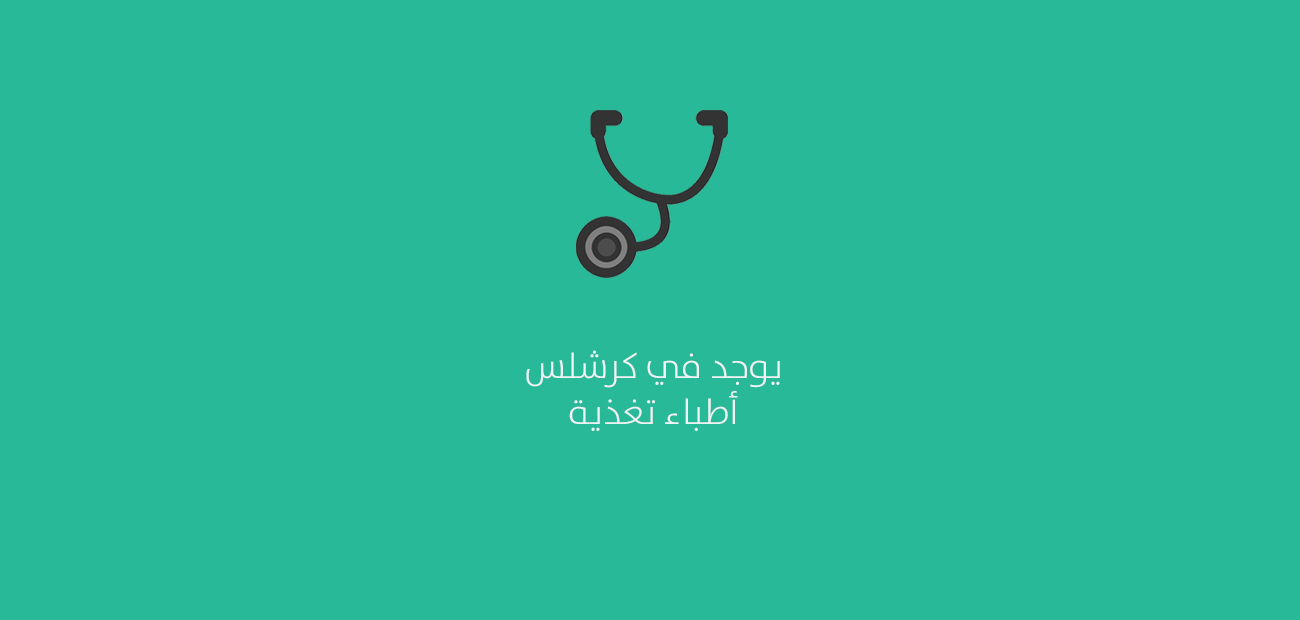
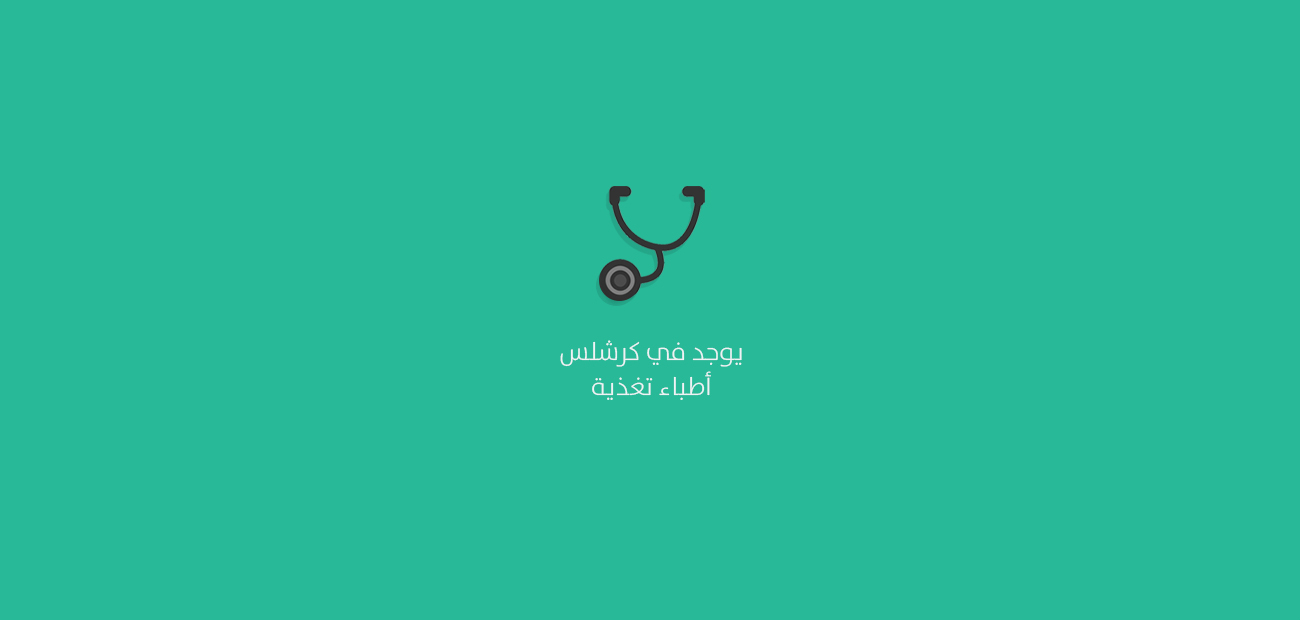
Change styling of erroneous contact form inputs, update slider pictures and fix font in homepage

Changed region(s): [[0.4308, 0.1532, 0.5846, 0.4903], [0.4, 0.5516, 0.6154, 0.7048]]

diff --git a/Assets/js/jqBootstrapValidation.js b/Assets/js/jqBootstrapValidation.js
@@ -482,7 +482,7 @@
                     ( settings.options.prependExistingHelpBlock ? $helpBlock.data("original-contents") : "" ));
                 } else {
                   // Multiple? Being sloppy? Glue them together into an UL.
-                  $helpBlock.html("<ul role=\"alert\"><li>" + errorsFound.join("</li><li>") + "</li></ul>" +
+                  $helpBlock.html("<div role=\"alert\"><span>" + errorsFound.join("</span><span>") + "</span></div>" +
                     ( settings.options.prependExistingHelpBlock ? $helpBlock.data("original-contents") : "" ));
                 }
               } else {

diff --git a/Assets/css/contact-form.css b/Assets/css/contact-form.css
@@ -1,8 +1,5 @@
 /* Main Style */
 
-.name, .email, .message textarea  {
-  font-family: "thameen" !important;
-}
 
 .name input, .email input, textarea{
   background-color: #eaedf1 !important;
@@ -36,6 +33,9 @@ input:focus, .name input:focus, .email input:focus, .message textarea:focus {
   background-color: #eaedf1 !important;
   border: 1px solid #28b998 !important;
   outline: none;
+}
+div.error > input, div.warning > input,div.error > div >textarea, div.warning > div > textarea  {
+  border: 1px solid #e74c3c !important;
 }
 .send-message {
   background-color: #ffffff;

diff --git a/Assets/css/custom-bootstrap.css b/Assets/css/custom-bootstrap.css
@@ -103,3 +103,7 @@ button.close {
 .carousel-control.left, .carousel-control.right {
     background-image: none
 }
+
+.text-danger, .text-danger:hover {
+  font-size: 12px;
+}

diff --git a/Assets/css/freelancer.css b/Assets/css/freelancer.css
@@ -25,6 +25,7 @@ h1, h2, h4, h5, h6 {
 }
 h3 {
   text-transform: uppercase;
+  font-family: "jf";
 }
 
 hr.star-light, hr.star-primary {

diff --git a/application/views/view_main_new.php b/application/views/view_main_new.php
@@ -16,12 +16,16 @@
 
   <!-- Bootstrap Core CSS - Uses Bootswatch Flatly Theme: http://bootswatch.com/flatly/ -->
   <link href="<?php echo base_url(); ?>Assets/css/bootstrap.min.css" rel="stylesheet">
+  <!-- Bootstrap RTL -->
+  <link href="<?php echo base_url(); ?>Assets/css/bootstrap-rtl.css" rel="stylesheet">
   <link href="<?php echo base_url(); ?>Assets/css/custom-bootstrap.css" rel="stylesheet">
 
   <!-- Custom CSS -->
   <link href="<?php echo base_url(); ?>Assets/css/freelancer.css" rel="stylesheet">
   <link rel="stylesheet" href="<?php echo base_url(); ?>Assets/css/contact-form.css">
+  <link rel="stylesheet" href="<?php echo base_url(); ?>Assets/fonts/jf/font.css">
   <link rel="stylesheet" href="<?php echo base_url(); ?>Assets/css/fonts.css">
+
 
   <!-- Custom Fonts -->
   <link href="<?php echo base_url(); ?>font-awesome/css/font-awesome.min.css" rel="stylesheet" type="text/css">
@@ -45,7 +49,7 @@ else{
   $other_lang = 'en';
 }
 ?>
-<body id="page-top" class="index"  style="<?php if($current_lang == 'ar') {echo 'direction:rtl;font-family: \'thameen\' !important';} else {echo 'font-family: \'HelveticaNeue-Light\' !important';} ?>">
+<body id="page-top" class="index"  style="<?php if($current_lang == 'ar') {echo 'font-family: \'jf\' !important';} else {echo 'font-family: \'HelveticaNeue-Light\' !important';} ?>">
 
   <!-- Navigation -->
   <nav class="navbar navbar-default navbar-fixed-top">
@@ -99,44 +103,33 @@ else{
 
   <!-- Slider Section -->
   <section class="main first" id="home">
-    <div id="carousel-example-generic" class="carousel slide" data-ride="carousel" style="direction:ltr">
-      <!-- Indicators -->
-      <ol class="carousel-indicators">
-        <li data-target="#carousel-example-generic" data-slide-to="0" class="active"></li>
-        <li data-target="#carousel-example-generic" data-slide-to="1"></li>
-        <li data-target="#carousel-example-generic" data-slide-to="2"></li>
-        <li data-target="#carousel-example-generic" data-slide-to="3"></li>
-        <li data-target="#carousel-example-generic" data-slide-to="4"></li>
-        <li data-target="#carousel-example-generic" data-slide-to="5"></li>
-        <li data-target="#carousel-example-generic" data-slide-to="6"></li>
-        <li data-target="#carousel-example-generic" data-slide-to="7"></li>
-      </ol>
+    <div id="carousel-example-generic" class="carousel slide" data-ride="carousel">
 
       <!-- Wrapper for slides -->
       <div class="carousel-inner" role="listbox">
         <div class="item active">
-          <img style="width:100%;" src="<?php echo base_url(); ?>Assets/Images/slider_1.jpg" />
+          <img src="<?php echo base_url(); ?>Assets/Images/slider_1.jpg" />
         </div>
         <div class="item">
-          <img style="width:100%;" src="<?php echo base_url(); ?>Assets/Images/slider_2.jpg" />
+          <img src="<?php echo base_url(); ?>Assets/Images/slider_2.jpg" />
         </div>
         <div class="item">
-          <img style="width:100%;" src="<?php echo base_url(); ?>Assets/Images/slider_3.jpg" />
+          <img src="<?php echo base_url(); ?>Assets/Images/slider_3.jpg" />
         </div>
         <div class="item">
-          <img style="width:100%;" src="<?php echo base_url(); ?>Assets/Images/slider_4.jpg" />
+          <img src="<?php echo base_url(); ?>Assets/Images/slider_4.jpg" />
         </div>
         <div class="item">
-          <img style="width:100%;" src="<?php echo base_url(); ?>Assets/Images/slider_5.jpg" />
+          <img src="<?php echo base_url(); ?>Assets/Images/slider_5.jpg" />
         </div>
         <div class="item">
-          <img style="width:100%;" src="<?php echo base_url(); ?>Assets/Images/slider_6.jpg" />
+          <img src="<?php echo base_url(); ?>Assets/Images/slider_6.jpg" />
         </div>
         <div class="item">
-          <img style="width:100%;" src="<?php echo base_url(); ?>Assets/Images/slider_7.jpg" />
+          <img src="<?php echo base_url(); ?>Assets/Images/slider_7.jpg" />
         </div>
         <div class="item">
-          <img style="width:100%;" src="<?php echo base_url(); ?>Assets/Images/slider_8.jpg" />
+          <img src="<?php echo base_url(); ?>Assets/Images/slider_8.jpg" />
         </div>
       </div>
 
@@ -233,17 +226,17 @@ else{
             </div>
           </div>
           <div class="row">
-              <div class="col-md-3"></div>
-              <div class="col-md-6">
+              <div class="col-md-2"></div>
+              <div class="col-md-8">
                   <div class="col-md-12">
                     <div id="success"></div>
                       <div class="row">
-                        <div class="form-group email col-md-6 control-group">
-                            <?php echo form_input($email); ?>
-                            <p class="help-block text-danger"></p>
-                        </div>
                         <div class="form-group name col-md-6 control-group">
                             <?php echo form_input($name); ?>
+                            <p class="help-block text-danger"></p>
+                        </div>
+                        <div class="form-group email col-md-6 control-group">
+                            <?php echo form_input($email); ?>
                             <p class="help-block text-danger"></p>
                         </div>
                       </div>
@@ -262,7 +255,7 @@ else{
                       </div>
                   </div>
               </div>
-              <div class="col-md-3"></div>
+              <div class="col-md-2"></div>
           </div>
       </div>
   </section>
